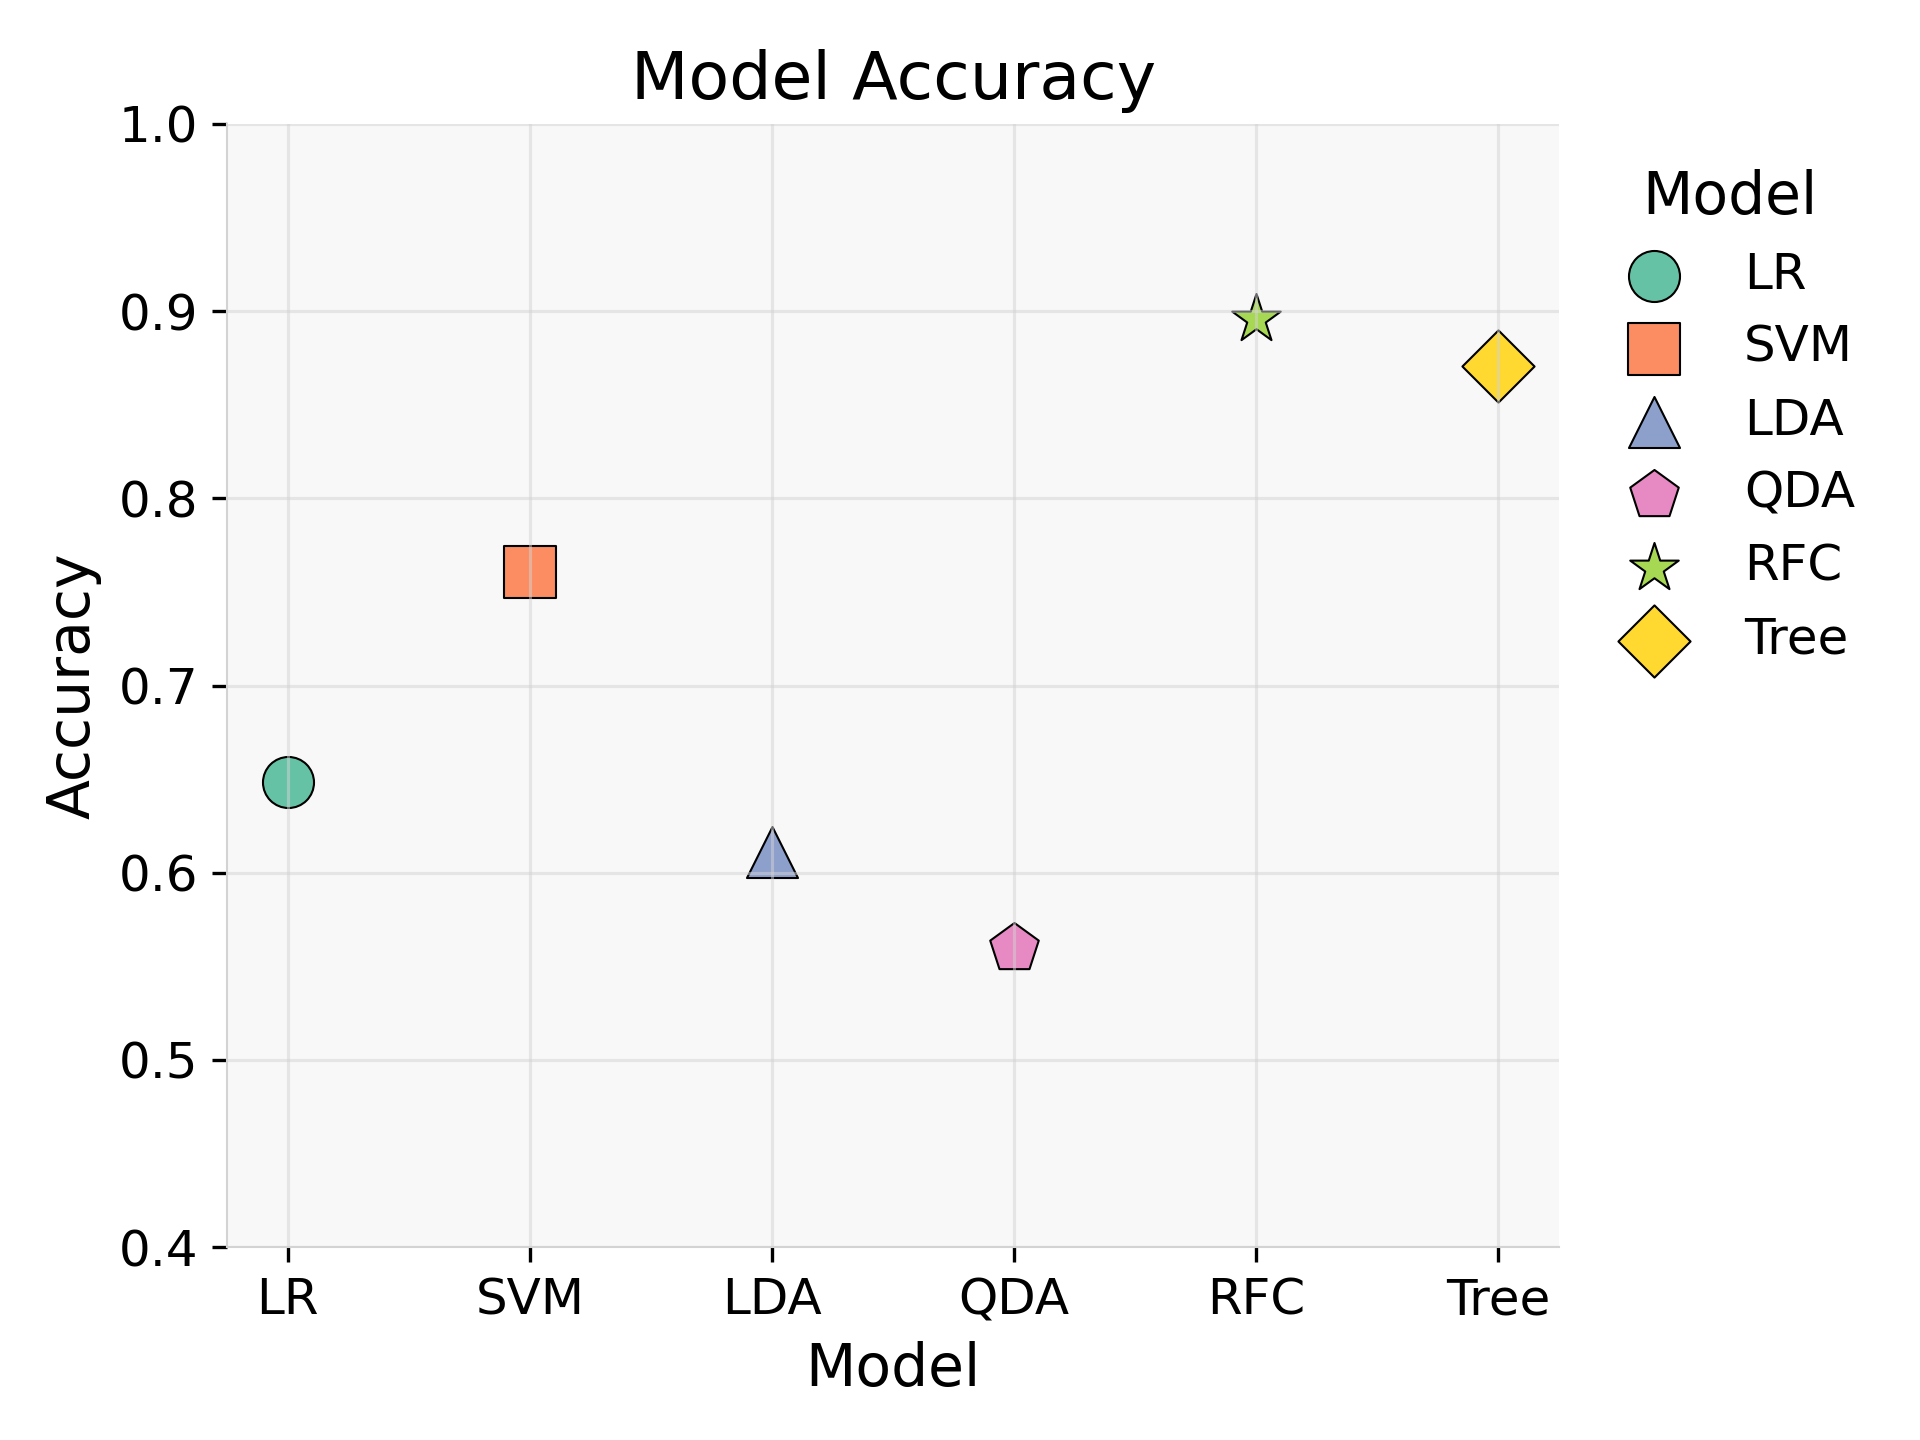
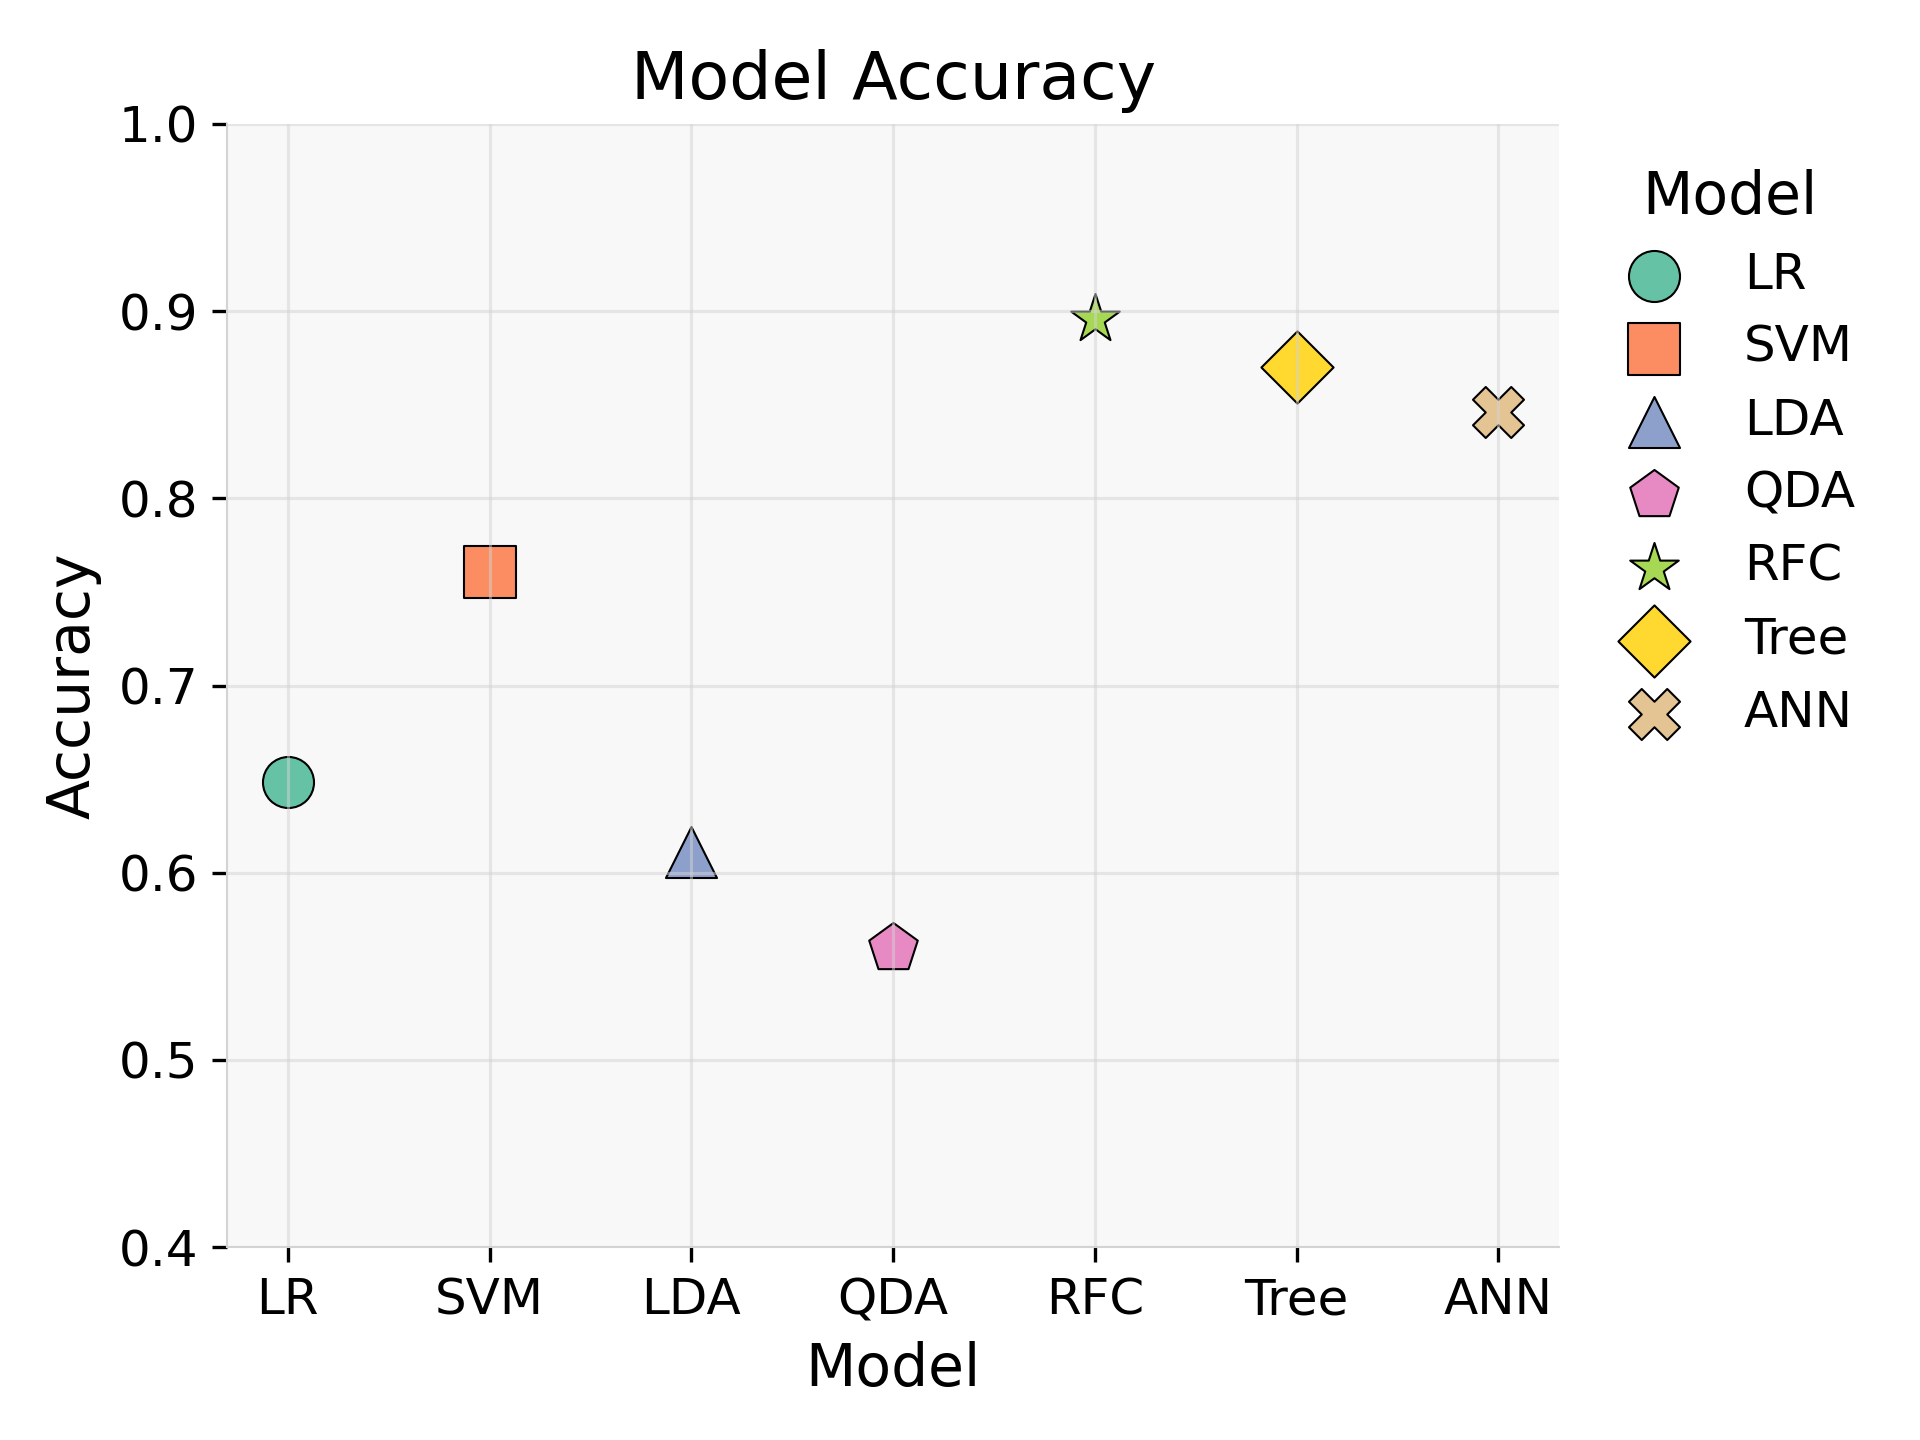
submission

diff --git a/dl_model.py b/dl_model.py
@@ -1,0 +1,184 @@
+import numpy as np
+import pandas as pd
+import matplotlib.pyplot as plt
+import tensorflow as tf
+from tensorflow.keras.models import Sequential
+from tensorflow.keras.layers import Dense, Dropout
+from tensorflow.keras import regularizers
+from tensorflow.keras.callbacks import EarlyStopping
+from sklearn.metrics import confusion_matrix, classification_report
+import seaborn as sns
+
+df1 = pd.read_csv('Data/cleaned.csv')
+
+# chi-squared selected feature
+X=df1[['host_response_time', 'host_response_rate', 'host_is_superhost',
+       'room_type', 'accommodates', 'minimum_nights', 'availability_30',
+       'availability_60', 'availability_90', 'availability_365',
+       'review_scores_accuracy', 'review_scores_cleanliness',
+       'review_scores_checkin', 'review_scores_communication',
+       'review_scores_value', 'instant_bookable', 'reviews_per_month',
+       'host_years', 'review_years_range']]
+Y=df1['popularity']
+
+# sanity check
+X.isna().sum()
+
+# Split
+from sklearn.model_selection import train_test_split
+from sklearn.preprocessing import StandardScaler
+
+x_train, x_test, y_train, y_test = train_test_split(X, Y, test_size=0.2, random_state=0)
+x_train, x_val, y_train, y_val = train_test_split(x_train, y_train, test_size=0.2, random_state=42)
+scaler = StandardScaler()
+x_train_scaled = scaler.fit_transform(x_train)
+x_test_scaled = scaler.transform(x_test)
+x_val_scaled = scaler.transform(x_val)
+
+# Display the shapes of the training and testing data
+x_train_scaled.shape, x_test_scaled.shape, x_val_scaled.shape,y_train.shape, y_test.shape,y_val.shape
+
+y_train.unique()
+
+class MyModel:
+    def __init__(self, params, verbose=True):
+        self.verbose = verbose
+        for key, val in params.items():
+            command = f'self.{key} = {val!r}' if isinstance(val, (float, int)) else f'self.{key} = "{val}"'
+            if self.verbose: print(command)
+            exec(command)
+
+        num_classes = np.unique(y_train).shape[0]  # Assuming y_train is globally accessible
+
+        # Dynamically build the model
+        self.model = Sequential()
+        self.model.add(Dense(self.nodes, activation=self.activation, kernel_regularizer=regularizers.l1_l2(l1=self.l1, l2=self.l2)))
+        self.model.add(Dropout(self.dropout))
+        if self.hidden_layers == 3:
+            self.model.add(Dense(self.nodes, activation=self.activation, kernel_regularizer=regularizers.l1_l2(l1=self.l1, l2=self.l2)))
+            self.model.add(Dropout(self.dropout))
+        self.model.add(Dense(num_classes, activation='softmax'))
+
+        # Compile the model
+        self.model.compile(optimizer=self.optimizer, loss='sparse_categorical_crossentropy', metrics=['accuracy'])
+
+    def train(self, epochs=50, batch_size=32):
+        callbacks = EarlyStopping(monitor='val_loss', patience=5)
+        self.history = self.model.fit(x_train_scaled, y_train, epochs=epochs, batch_size=batch_size,
+                                      validation_data=(x_val_scaled, y_val), callbacks=[callbacks])
+
+    def plot_confusion_matrix(self, y_true, y_pred, title):
+        matrix = confusion_matrix(y_true, y_pred)
+        sns.heatmap(matrix, annot=True, fmt='d', cmap='Blues')
+        plt.xlabel('Predicted Label')
+        plt.ylabel('True Label')
+        plt.title(title)
+        plt.show()
+
+    def plot_loss(self):
+        plt.figure(figsize=(10, 5))
+        plt.plot(self.history.history['loss'], label='Training Loss')
+        plt.plot(self.history.history['val_loss'], label='Validation Loss')
+        plt.title('Training and Validation Loss')
+        plt.xlabel('Epochs')
+        plt.ylabel('Loss')
+        plt.legend()
+        plt.show()
+
+    def evaluate_model(self):
+        # Predict and evaluate
+        y_train_pred = np.argmax(self.model.predict(x_train_scaled), axis=1)
+        y_val_pred = np.argmax(self.model.predict(x_val_scaled), axis=1)
+        y_test_pred = np.argmax(self.model.predict(x_test_scaled), axis=1)
+
+        # Calculate accuracy
+        train_loss, train_accuracy = self.model.evaluate(x_train_scaled, y_train, verbose=0)
+        val_loss, val_accuracy = self.model.evaluate(x_val_scaled, y_val, verbose=0)
+        test_loss, test_accuracy = self.model.evaluate(x_test_scaled, y_test, verbose=0)
+
+        print('\nTraining Set Classification Report:\n', classification_report(y_train, y_train_pred))
+        print('Training Accuracy: {:.4f}'.format(train_accuracy))
+        print('\nValidation Set Classification Report:\n', classification_report(y_val, y_val_pred))
+        print('Validation Accuracy: {:.4f}'.format(val_accuracy))
+        print('\nTest Set Classification Report:\n', classification_report(y_test, y_test_pred))
+        print('Test Accuracy: {:.4f}'.format(test_accuracy))
+
+        self.plot_loss()
+        self.plot_confusion_matrix(y_train, y_train_pred, 'Training Confusion Matrix')
+        self.plot_confusion_matrix(y_val, y_val_pred, 'Validation Confusion Matrix')
+        self.plot_confusion_matrix(y_test, y_test_pred, 'Test Confusion Matrix')
+
+# Example usage:
+params = {
+    'nodes': 64,
+    'activation': 'relu',
+    'dropout': 0.2,
+    'l1': 0.01,
+    'l2': 0.01,
+    'optimizer': 'adam',
+    'hidden_layers': 2  # This should be a boolean now or handle this param differently.
+}
+
+model = MyModel(params)
+model.train(epochs=100, batch_size=32)
+model.evaluate_model()
+
+params2 = {
+    'nodes': 64,
+    'activation': 'relu',
+    'dropout': 0.2,
+    'l1': 0,
+    'l2': 0.01,
+    'optimizer': 'adam',
+    'hidden_layers': 3  # This should be a boolean now or handle this param differently.
+}
+
+model2 = MyModel(params2)
+model2.train(epochs=100, batch_size=32)
+model2.evaluate_model()
+
+params3 = {
+    'nodes': 64,
+    'activation': 'relu',
+    'dropout': 0.2,
+    'l1': 0,
+    'l2': 0.01,
+    'optimizer': 'adam',
+    'hidden_layers': 5
+}
+
+model3 = MyModel(params3)
+model3.train(epochs=100, batch_size=32)
+model3.evaluate_model()
+
+params4 = {
+    'nodes': 64,
+    'activation': 'relu',
+    'dropout': 0.2,
+    'l1': 0,
+    'l2': 0.01,
+    'optimizer': 'adam',
+    'hidden_layers': 4
+}
+
+model4 = MyModel(params4)
+model4.train(epochs=100, batch_size=32)
+model4.evaluate_model()
+
+"""### best model so far
+
+"""
+
+optimal_params = {
+    'nodes': 64,
+    'activation': 'relu',
+    'dropout': 0.2,
+    'l1': 0,
+    'l2': 0.01,
+    'optimizer': 'adam',
+    'hidden_layers': 4
+}
+
+optimal_model = MyModel(optimal_params)
+optimal_model.train(epochs=100, batch_size=32)
+optimal_model.evaluate_model()

diff --git a/ml_model.py b/ml_model.py
@@ -337,12 +337,12 @@ model_tree.plot(confusion, y_prob_rfc, y_test, save_fig=True, filename='decision
 
 
 ## Model Comparison
-table = pd.DataFrame({'Model': ['LR', 'SVM', 'LDA', 'QDA', 'RFC', 'Tree'],
-                      'Accuracy': [lrg_accuracy, svm_accuracy, lda_accuracy, qda_accuracy, rfc_accuracy, tree_accuracy]})
+table = pd.DataFrame({'Model': ['LR', 'SVM', 'LDA', 'QDA', 'RFC', 'Tree', "ANN"],
+                      'Accuracy': [lrg_accuracy, svm_accuracy, lda_accuracy, qda_accuracy, rfc_accuracy, tree_accuracy, 0.8463]})
 
 color_palette = sns.color_palette("Set2")  # Using seaborn to get a set of colors
 color_dict = dict(zip(table['Model'], color_palette))
-marker_dict = {'LR': 'o', 'SVM': 's', 'LDA': '^', 'QDA': 'p', 'RFC': '*', 'Tree': 'D'}
+marker_dict = {'LR': 'o', 'SVM': 's', 'LDA': '^', 'QDA': 'p', 'RFC': '*', 'Tree': 'D', 'ANN': 'X'}
 
 # Get current axis
 def plot_model_comparison(save_fig=False, filename='model_comparison.png'):

diff --git a/README.md b/README.md
@@ -21,4 +21,4 @@ Logistic regression, Support Vector Machine (SVM),RandomForest Classifier , Deci
 
 * ml_model.py: This script fits the models derived from methodlogy to the data and evaluates their performance using cross-validation. It also selects the best model based on the evaluation metrics.
 
-* dl_model.py: This script fits an ann neural network model to the data and evaluates its performance using cross-validation. It also tunes the hyperparameters of the model to improve its performance.
+* dl_model.py: This script fits an ann neural network model to the data and evaluates its performance using cross-validation. It also tunes the hyperparameters of the model to improve its performance. I cannot run it on my local machine because of the tensorflow version issue. But I developed it on google colab.
